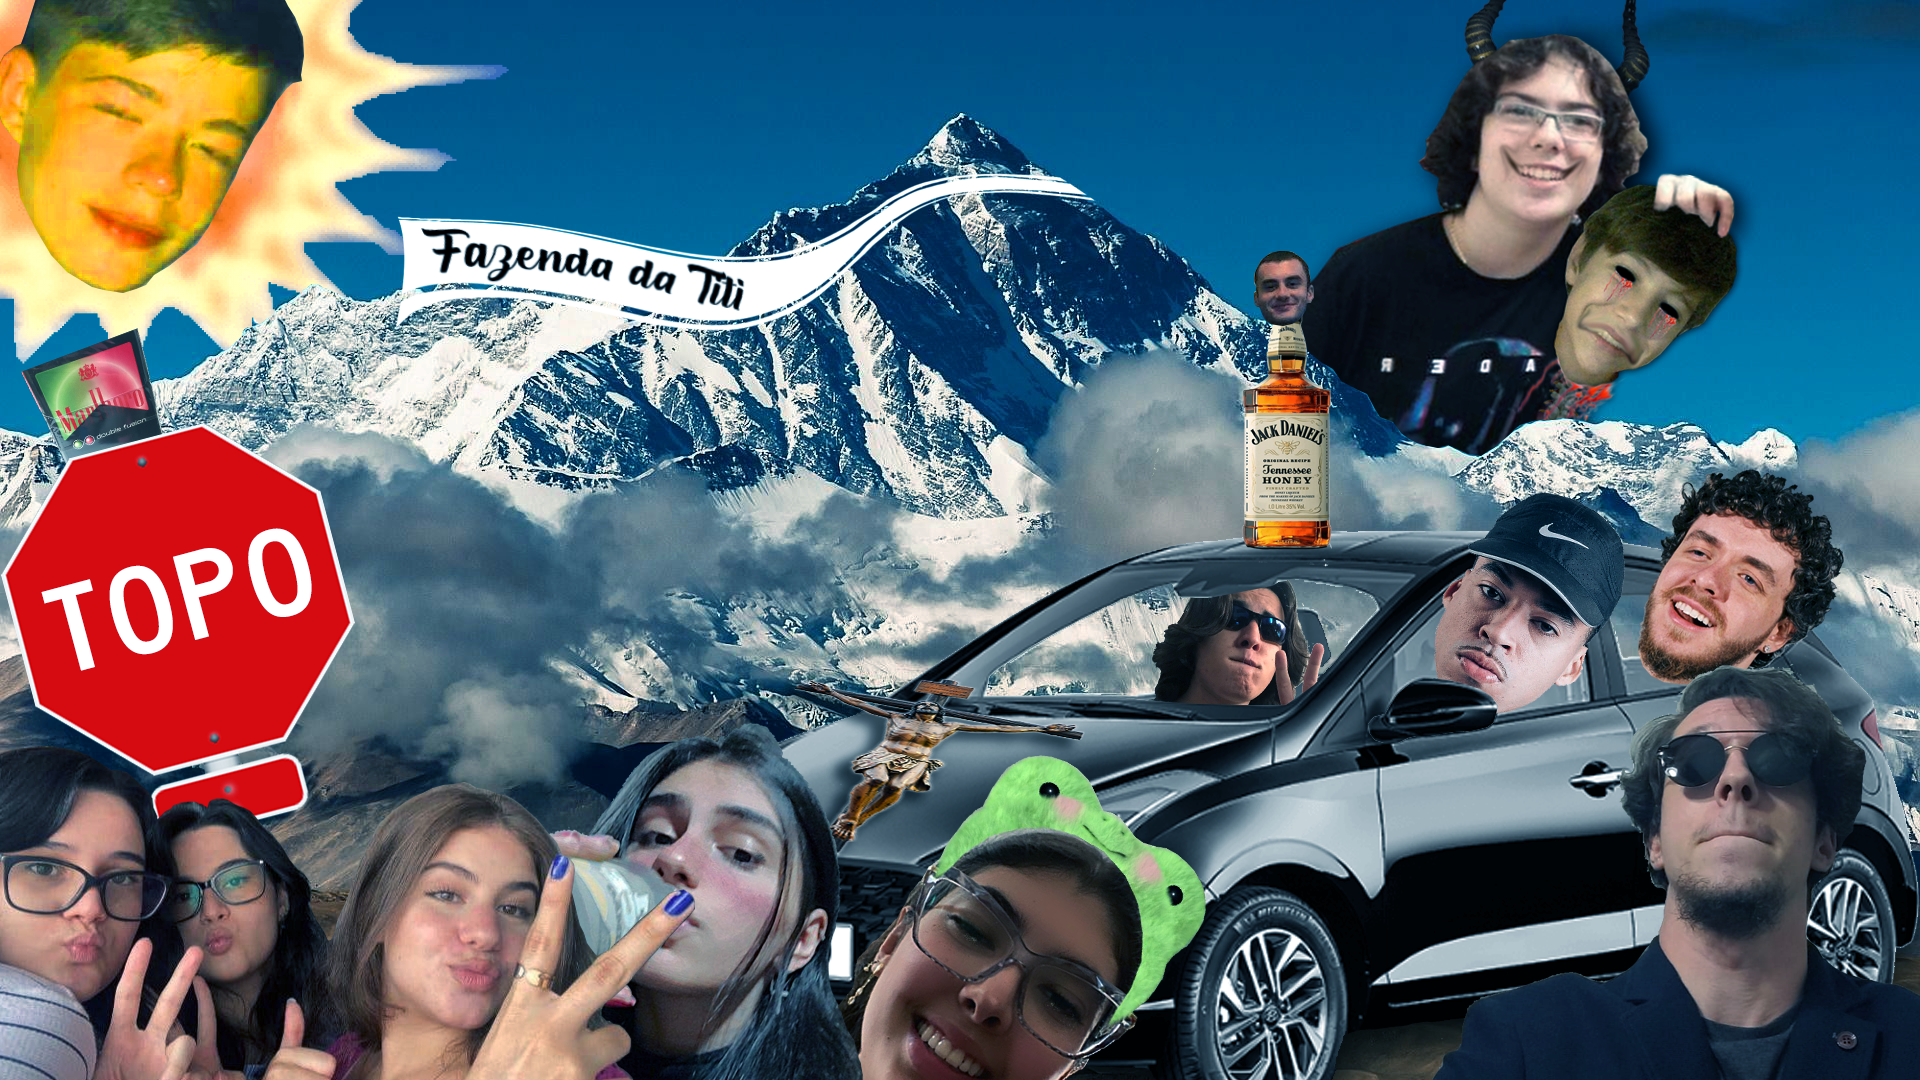
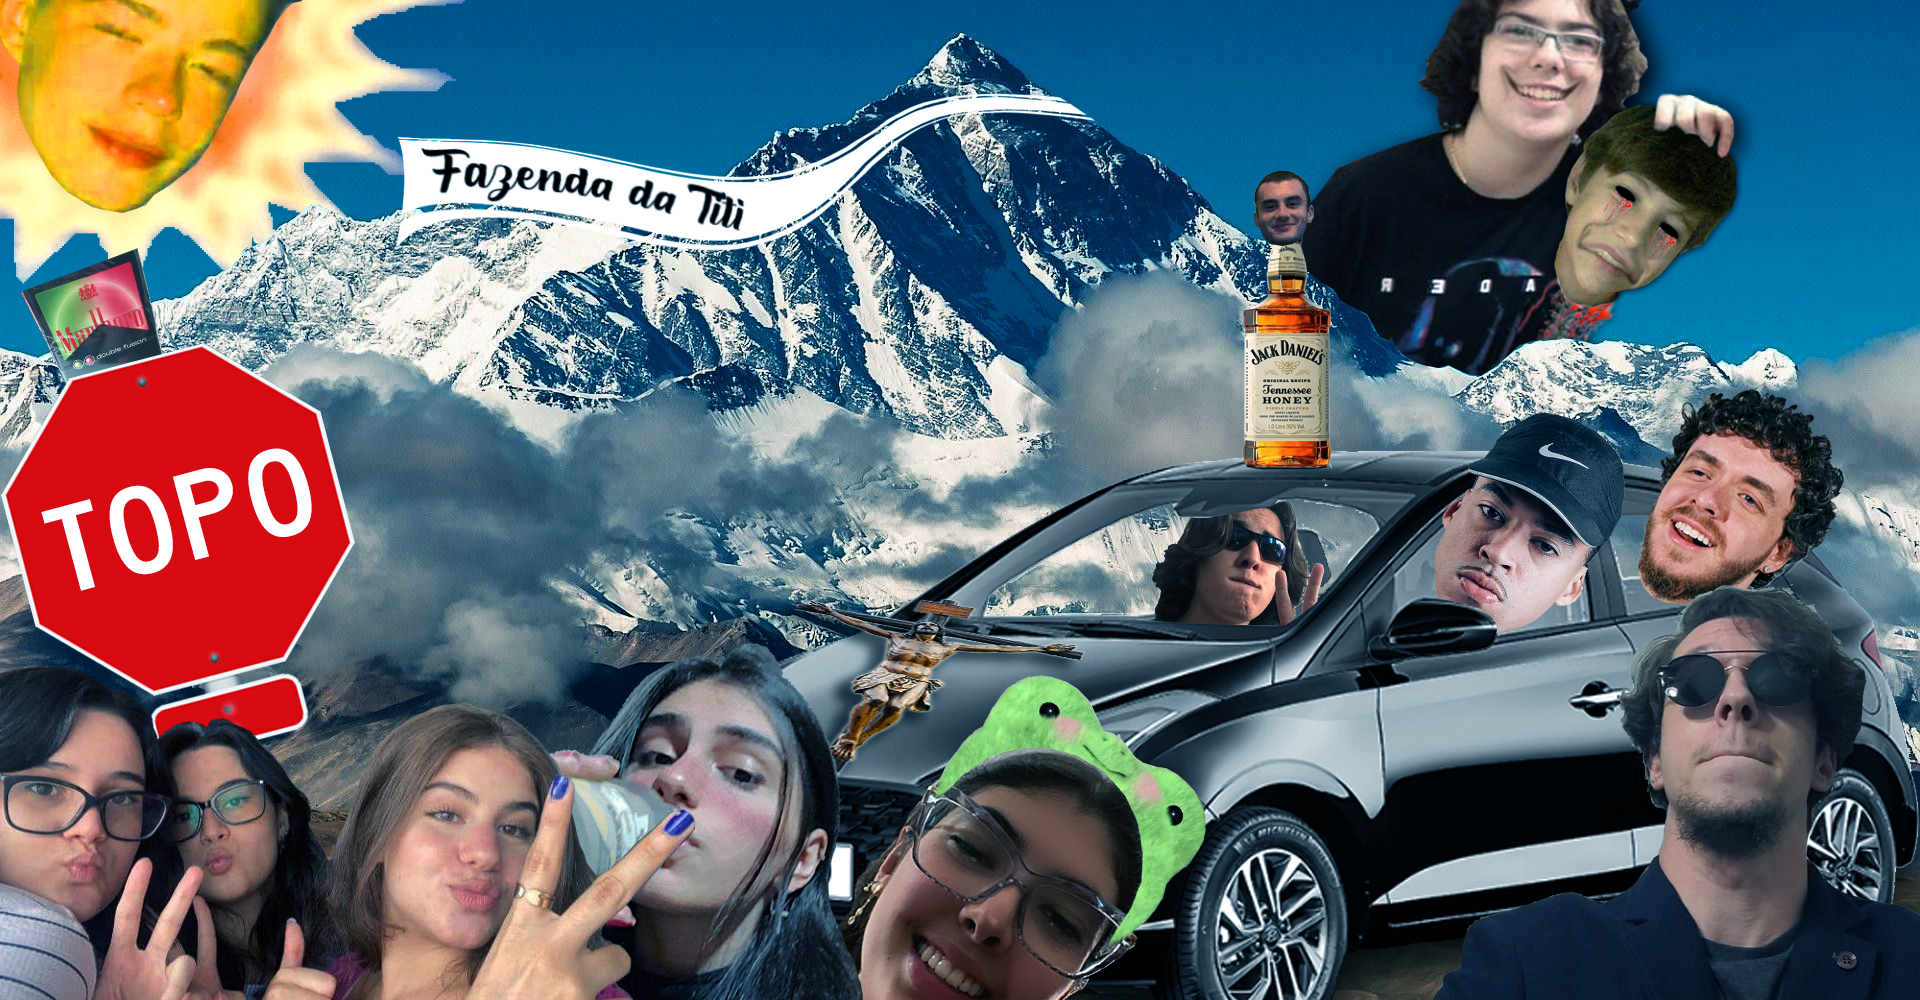
05/04/2022 01:12

diff --git a/fazenda/pages/index.tsx b/fazenda/pages/index.tsx
@@ -1,9 +1,7 @@
 import { useEffect, useState } from 'react'
 import type { NextPage } from 'next'
 import Head from 'next/head'
-import Particles from 'react-tsparticles'
 import styles from '../styles/Home.module.css'
-import Animation from '../utils/animation';
 
 type Time = {
   dias?: number;
@@ -16,7 +14,7 @@ type Time = {
 const Home: NextPage = () => {
   const calculateTimeLeft = () => {
     let year = new Date().getFullYear();
-    const difference = +new Date(year, 3, 8, 12, 0, 0) - +new Date();
+    const difference = +new Date(year, 3, 8) - +new Date();
     let timeLeft = {
       
     };

diff --git a/fazenda/styles/Home.module.css b/fazenda/styles/Home.module.css
@@ -6,7 +6,7 @@
   align-items: center;
   justify-content: center;
   flex-direction: column;
-  background: url('/perfeicao2.png');
+  background: url('/perfeicao.png');
   background-size: 100vw 100vh;
 }
 
